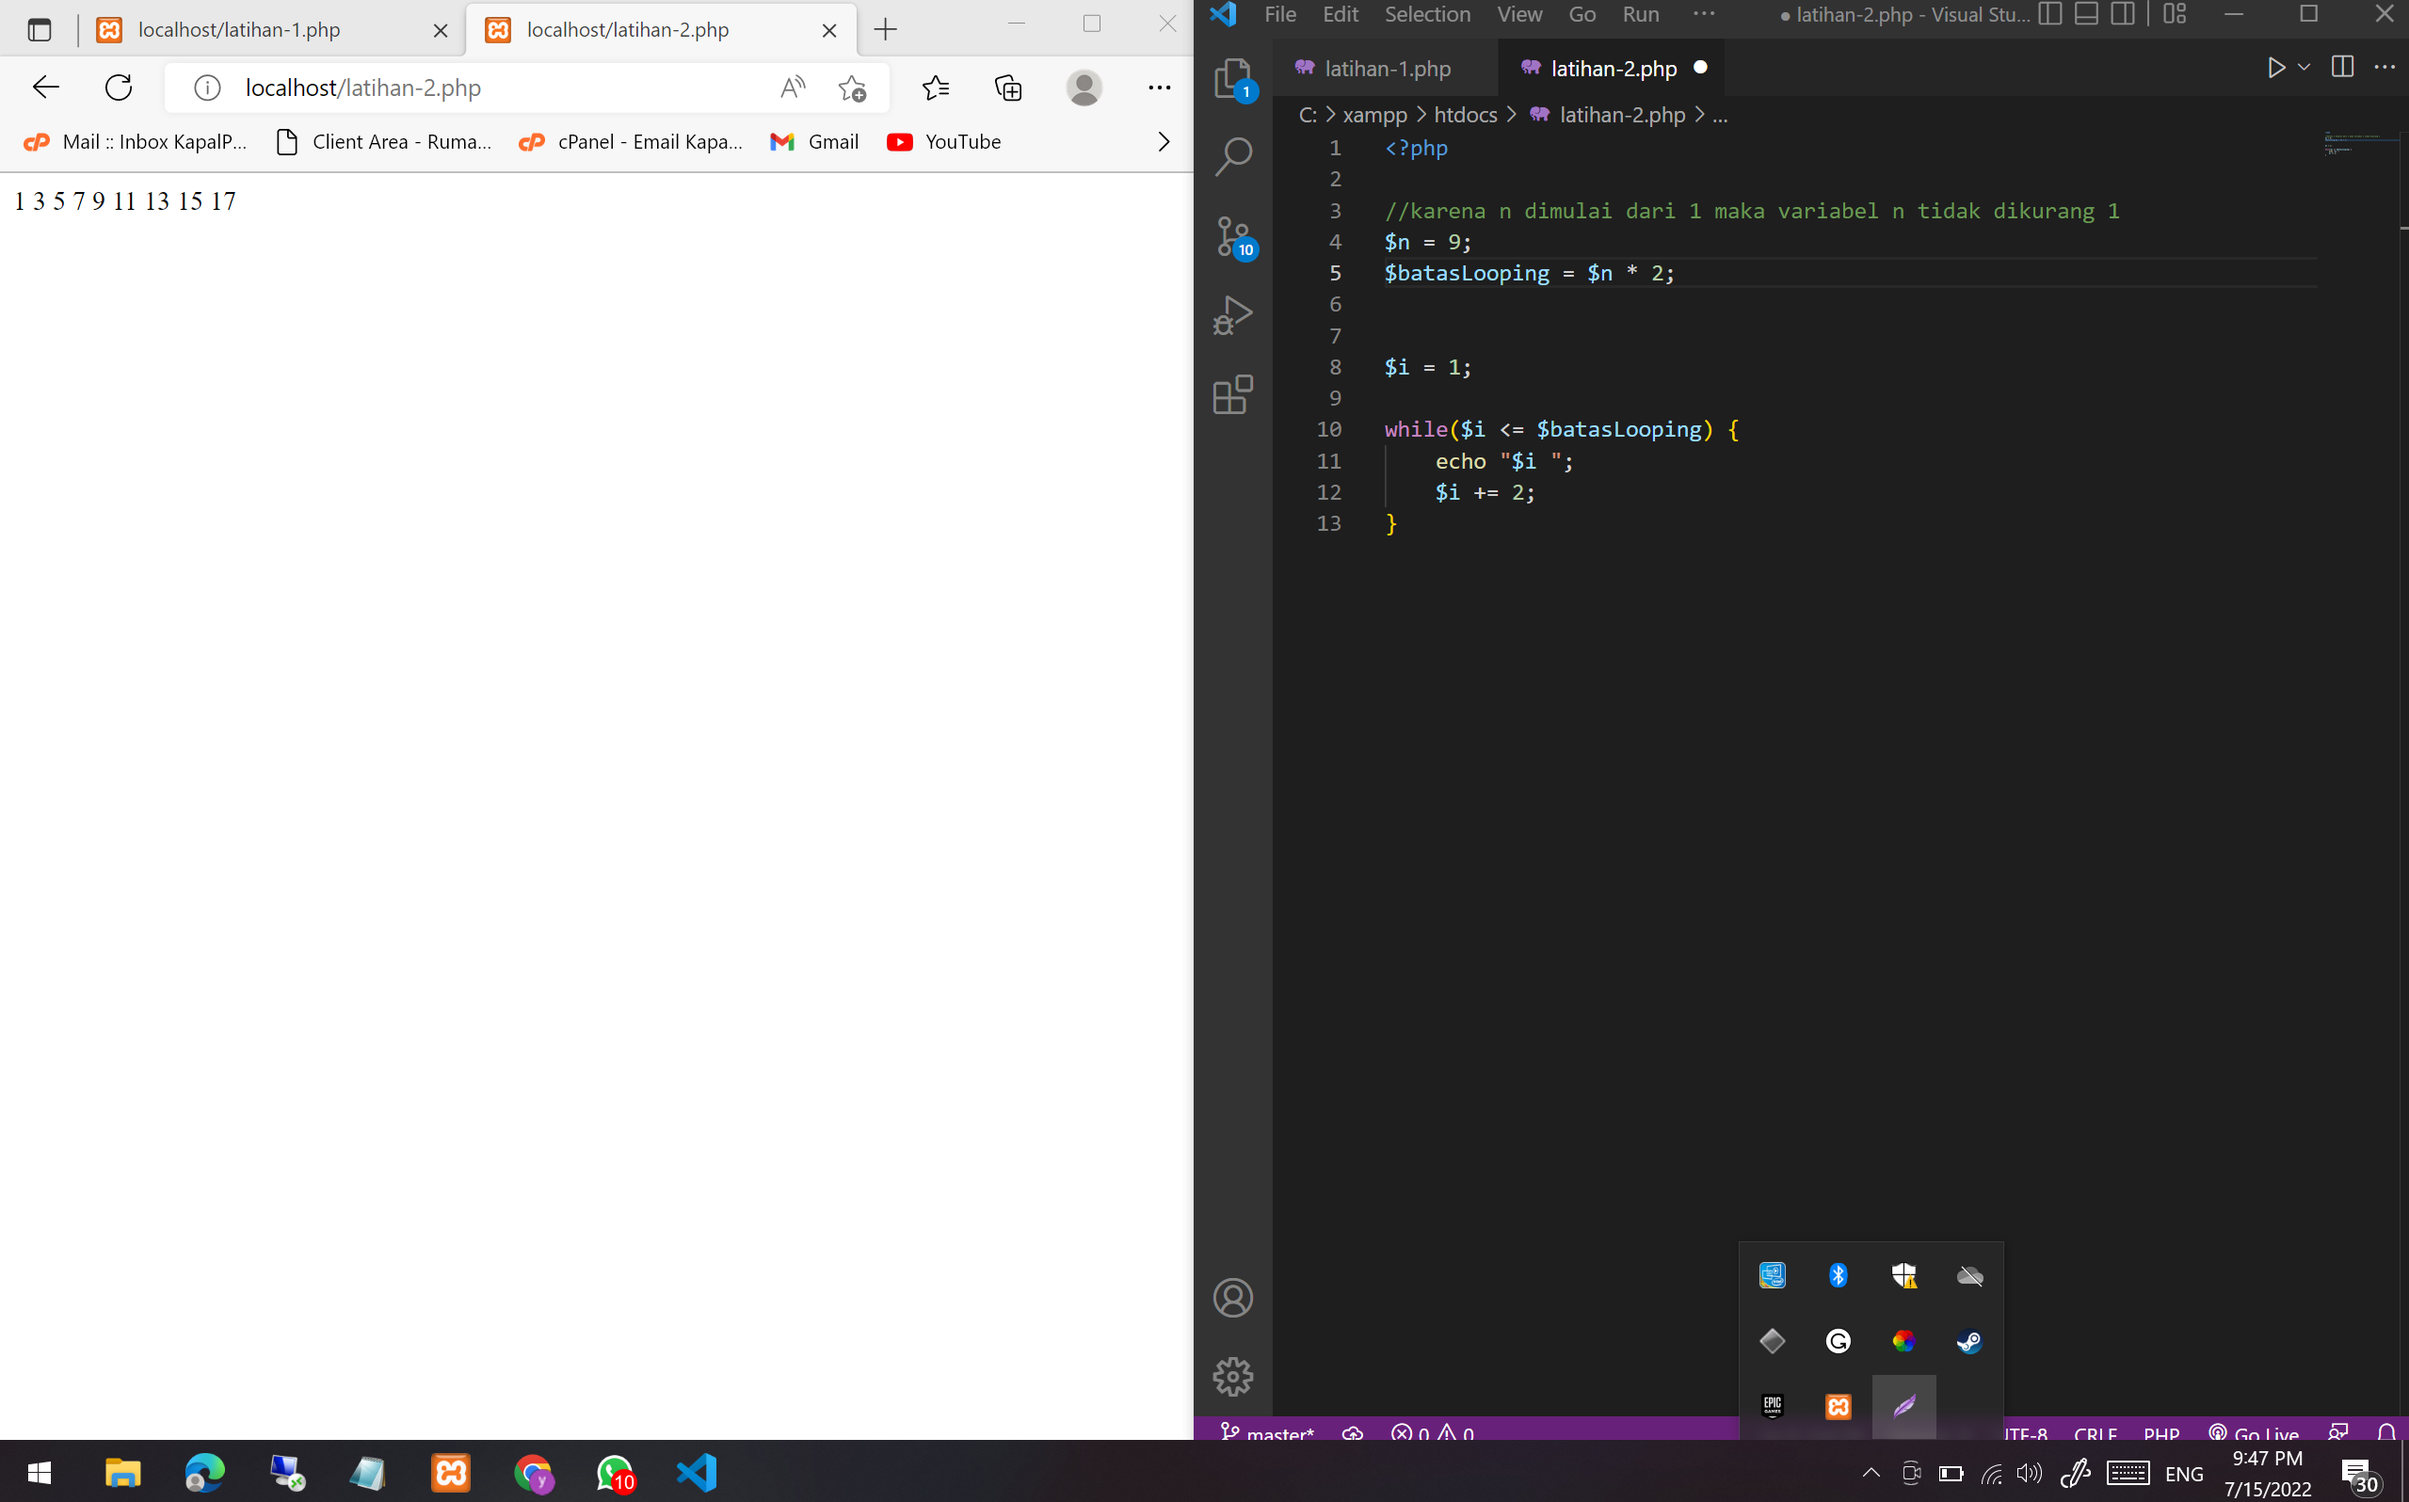
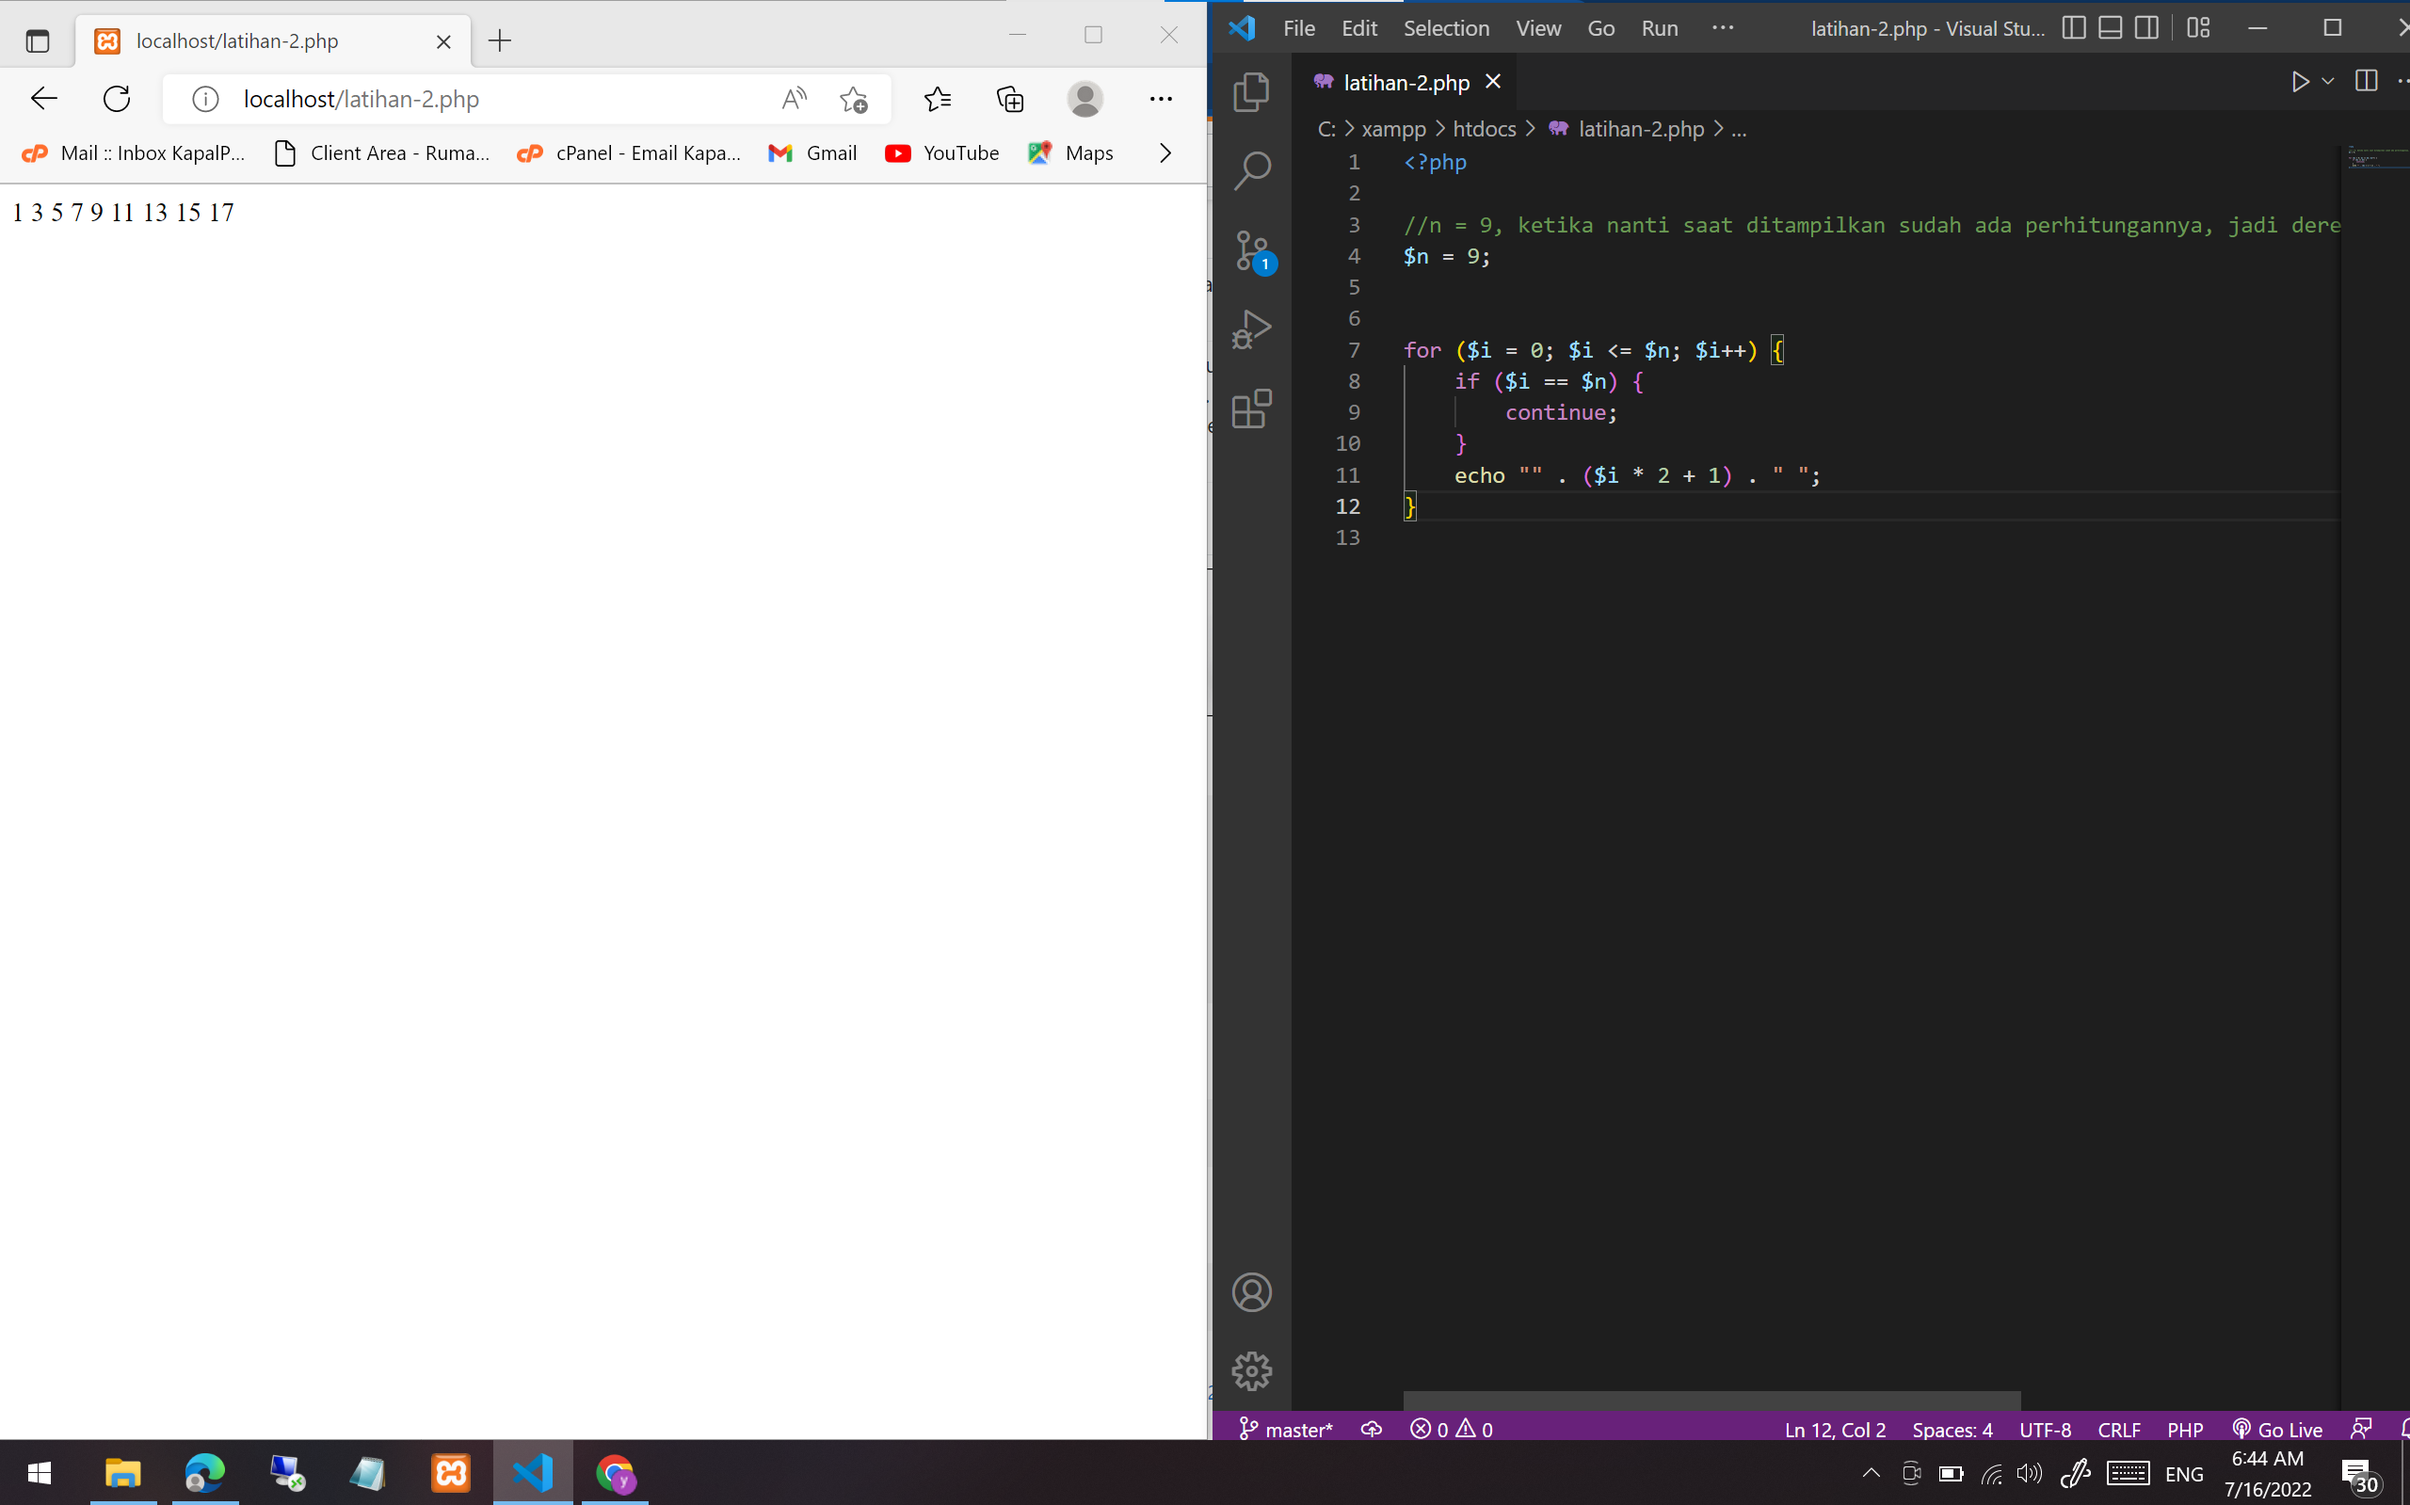
modified latihan-2

diff --git a/Sprint-1/Topik-3/latihan-2.php b/Sprint-1/Topik-3/latihan-2.php
@@ -1,13 +1,12 @@
 <?php
 
-//karena n dimulai dari 1 maka variabel n tidak dikurang 1
+//n = 9, ketika nanti saat ditampilkan sudah ada perhitungannya, jadi deret aritmatika ada 9 bilangan (n = 9)
 $n = 9;
-$batasLooping = $n * 2;
 
 
-$i = 1;
-
-while($i <= $batasLooping) {
-    echo "$i ";
-    $i += 2;
+for ($i = 0; $i <= $n; $i++) {
+    if ($i == $n) {
+        continue;
+    }
+    echo "" . ($i * 2 + 1) . " ";
 }
